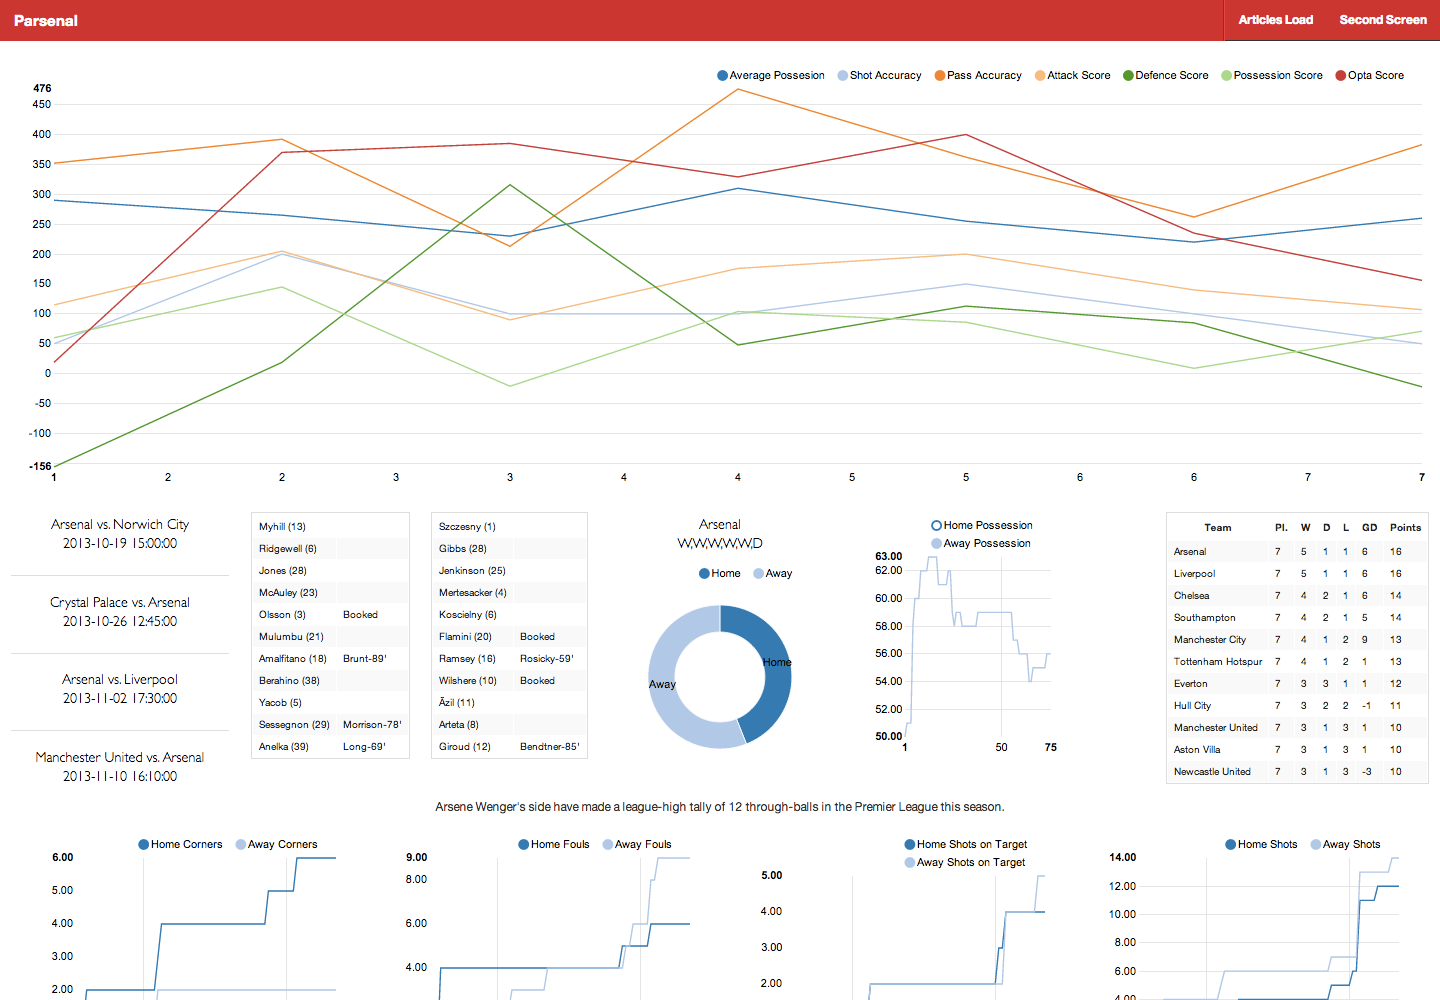
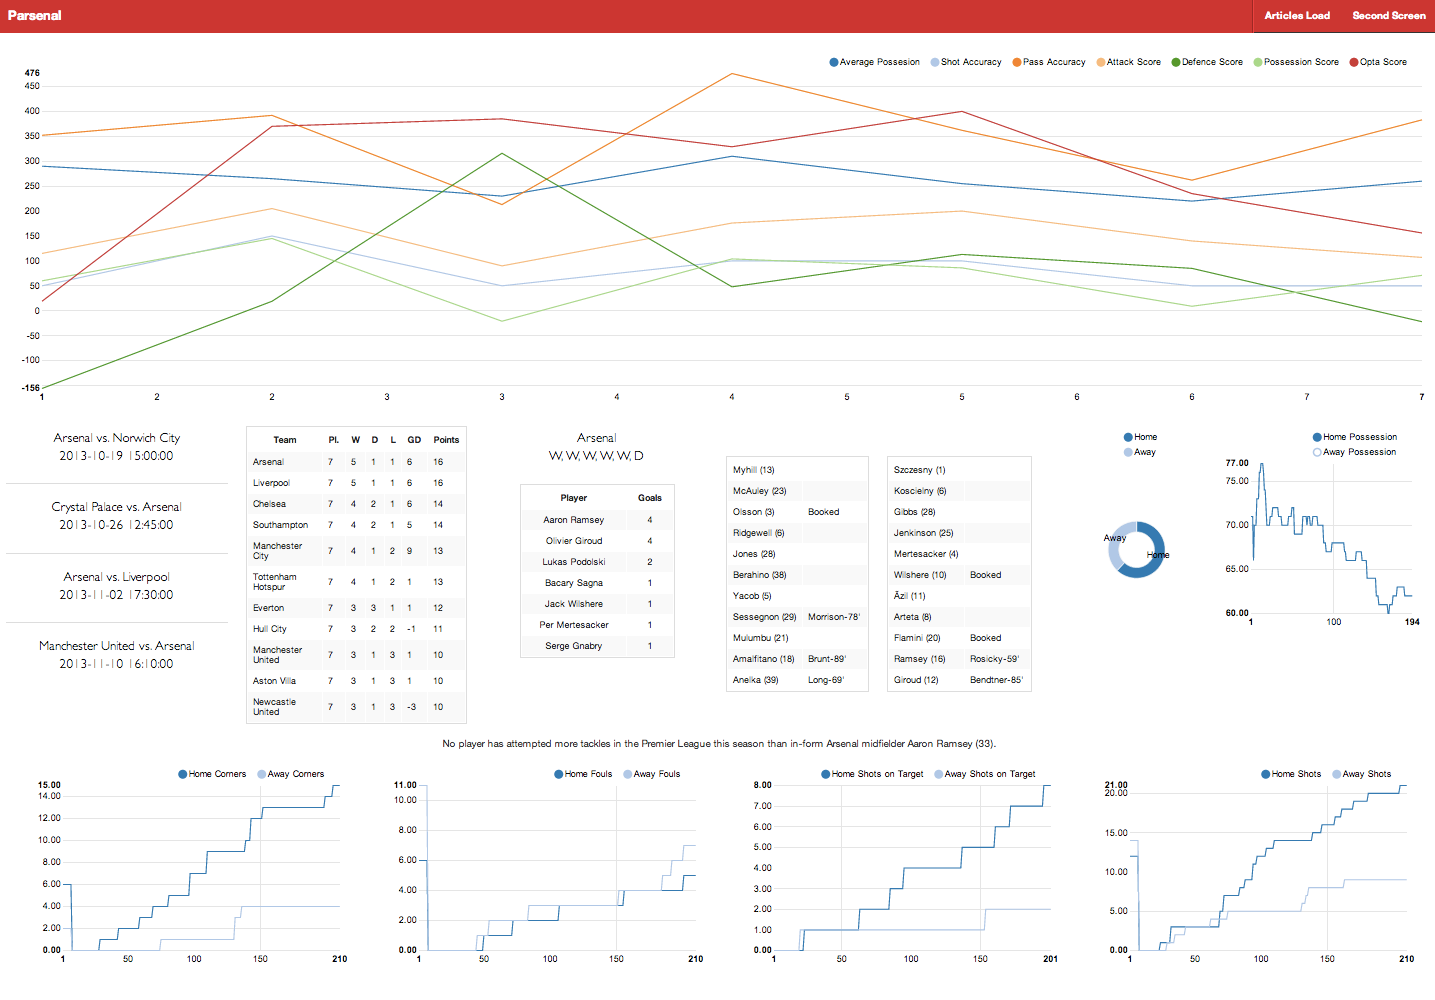
updated readme SS

diff --git a/public/app.js b/public/app.js
@@ -48,6 +48,15 @@ d3App.controller('AppCtrl', function AppCtrl ($scope, $http) {
 				});
 			}
 
+	$scope.liveTargetsJson = function () {
+					$http({
+						method: 'GET',
+						url:'/livetargetsjson-v2/'
+					}).success(function(data) {
+						$scope.livetargets = data;
+				});
+			}
+
 			
 	$scope.names = ["Arsenal", "Liverpool", "Chelsea", "Southampton", "Everton", "Hull City", "Manchester City", "Newcastle United", "Tottenham Hotspur", "West Bromwich Albion", "Cardiff City", "Swansea City", "Aston Villa", "Manchester United", "Stoke City", "Norwich City", "West Ham United", "Fulham", "Crystal Palace", "Sunderland"];
 
@@ -86,6 +95,18 @@ d3App.controller('AppCtrl', function AppCtrl ($scope, $http) {
 			},
 			tooltipMode: "default"
 		};
+		$scope.liveoptions2 = {
+					lineMode: "cardinal",
+					series: [
+						{y: "home_shots", label: "Home Shots on Target", color: "#bcbd22"},
+						{y: "away_shots", label: "Away Shots on Target", color: "#006cde"}
+					],
+					axes: {
+						x: {type: "linear", key: "x"},
+						y: {type: "linear"}
+					},
+					tooltipMode: "default"
+				};
 
 	$scope.getMegaJson = function () {
 		$http({
@@ -107,6 +128,7 @@ d3App.controller('AppCtrl', function AppCtrl ($scope, $http) {
 	};
 
  $scope.livePossJson();
+ $scope.liveTargetsJson();
 	$scope.tableJson();
 });
 

diff --git a/public/d3.html b/public/d3.html
@@ -40,8 +40,10 @@
 		      <td>{{s.player}}</td><td>{{s.goals}}</td>
 		  </tr>
 		</table>		 
+		<br>
+		<div id="livechart"><linechart data="livetargets" options="liveoptions2"></linechart></div>
 	</div>
-  <div class="col-md-4">
+  <div class="col-md-3">
 		<table class="table table-hover">
         <tr>
             <th>Team</th>

diff --git a/lib/prod/jasonthebuilder.rb b/lib/prod/jasonthebuilder.rb
@@ -23,8 +23,12 @@ class JasonTheBuilder
 
 
 		def possession_json
-			@away = Poss.pluck(:awayposs)
-			@home = Poss.pluck(:homeposs)
+			
+			away_poss = Poss.pluck(:awayposs)
+			home_poss = Poss.pluck(:homeposs)
+			
+			@home = home_poss.drop_while {|i| i == 100 }
+			@away = away_poss.drop_while {|i| i == 100 }
 			live_array_builder("Home Possession", "Away Possession")
 		end
 
@@ -147,6 +151,16 @@ class JasonTheBuilder
 			{ 'x'=> x, "home_poss"=> y }
 		end
 
+	end
+
+	def livetargets
+			away = Target.pluck(:awayshots)
+			home = Target.pluck(:homeshots)
+			x_axis_array = * 1..(away.length)
+
+		[x_axis_array, home, away].transpose.map do |x, y, z| 
+			{ 'x'=> x, "home_shots"=> y, "away_shots"=> z }
+		end
 	end
 
 		def deprecated_jason(team)

diff --git a/config/routes.rb b/config/routes.rb
@@ -20,6 +20,7 @@ AAAAMILNE::Application.routes.draw do
   get 'topscorers/:team' => 'fixtures#topscorers'
   get 'liveposspie' => 'fixtures#liveposspie'
   get 'livepossjson-v2' => 'fixtures#livepossjson_v2'
+  get 'livetargetsjson-v2' => 'fixtures#livetargetsjson_v2'
 
   get 'livepossjson' => 'fixtures#livepossjson'
   get 'liveshotjson' => 'fixtures#liveshotjson'

diff --git a/app/controllers/fixtures_controller.rb b/app/controllers/fixtures_controller.rb
@@ -54,6 +54,10 @@ class FixturesController < ApplicationController
     render :json => JasonTheBuilder.new.liveposs
   end  
 
+  def livetargetsjson_v2
+    render :json => JasonTheBuilder.new.livetargets
+  end  
+
   def liveshotjson
     render :json => JasonTheBuilder.new.shots_json
   end  
